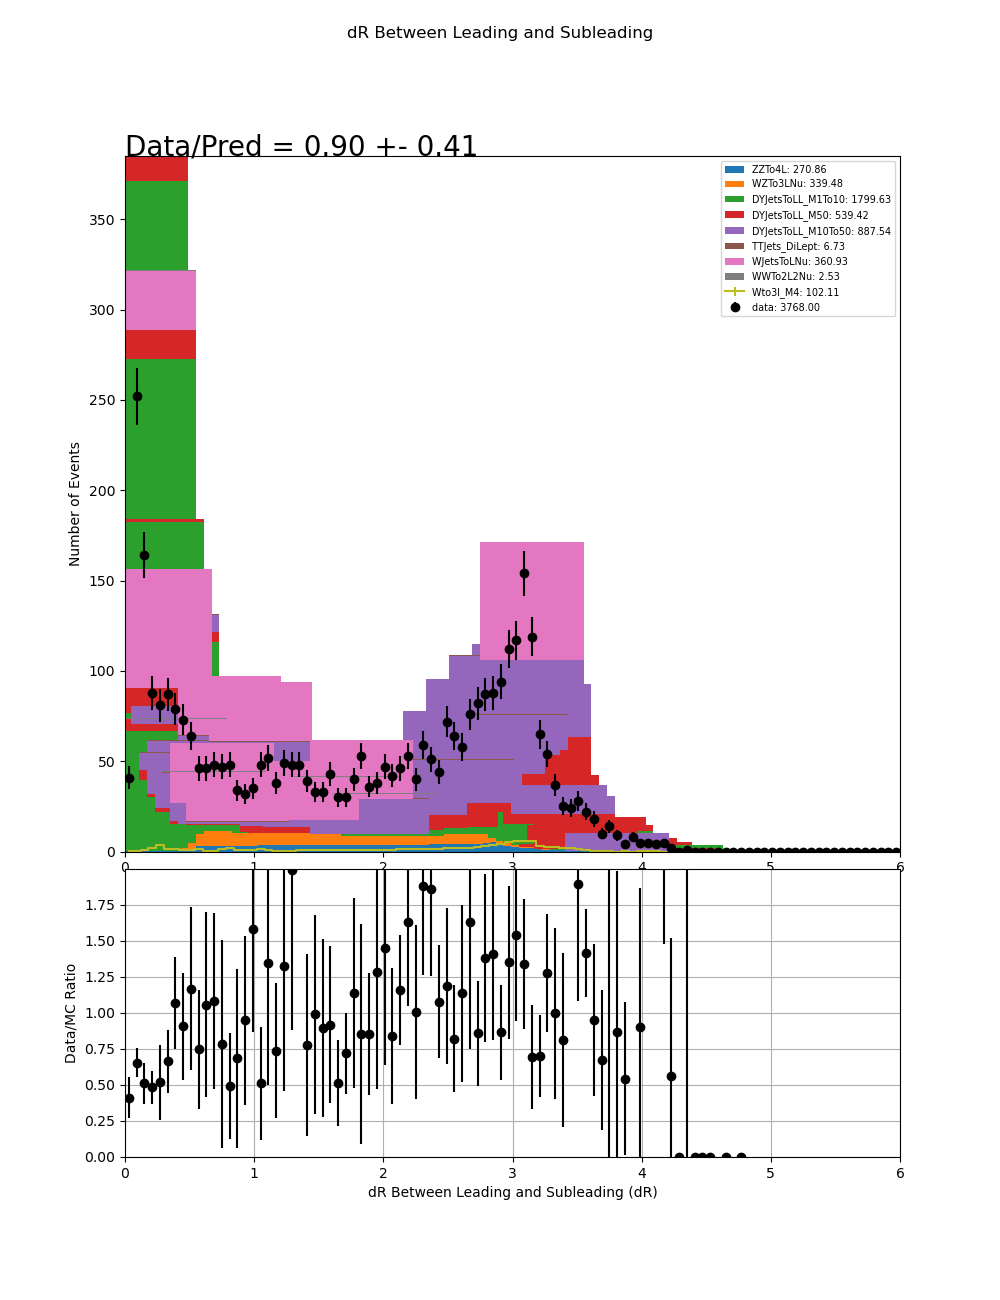
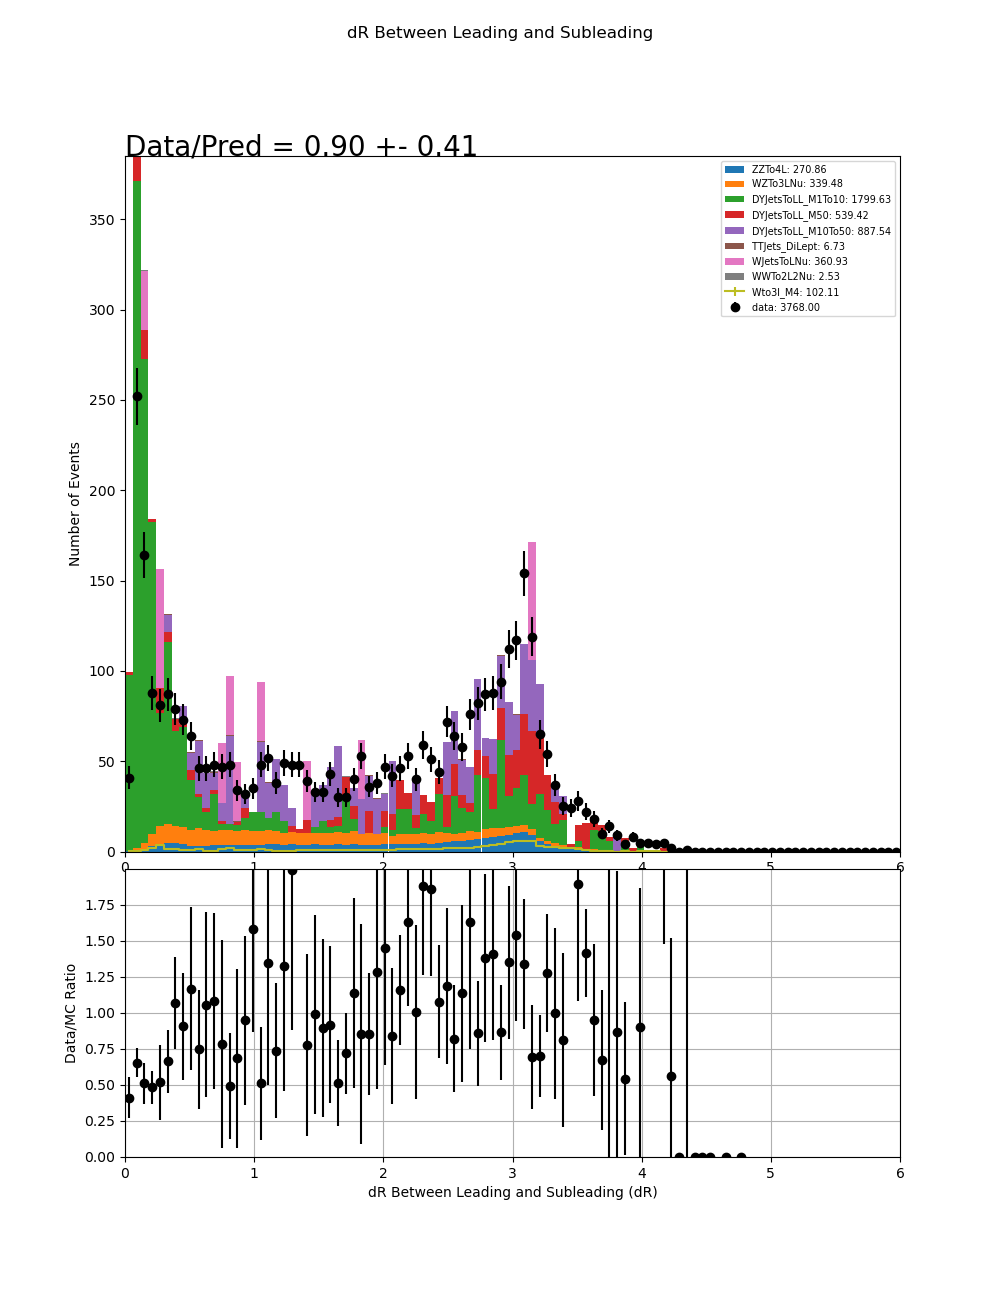
Fixed bars overlapping on plots

Changed region(s): [[0.124, 0.1231, 0.682, 0.6769]]

diff --git a/Plotter/Plot.py b/Plotter/Plot.py
@@ -39,7 +39,7 @@ def plot(data,p,s,e,out):
 		y,binEdges = np.histogram(to_plot,bins=p[3],range=(p[4],p[5]),weights=weight_arr)
 		bincenters = 0.5*(binEdges[1:]+binEdges[:-1])
 		if data[s[i]]["sType"]=="MC":
-			ax1.bar(bincenters,y,yerr=error,bottom=last,label='%s: %.2f'%(s[i],np.sum(y)))
+			ax1.bar(bincenters,y,yerr=error,bottom=last,width=binEdges[1]-binEdges[0],label='%s: %.2f'%(s[i],np.sum(y)))
 			last += y
 			MC_error += hidden_error
 		elif data[s[i]]["sType"]=="sig":
@@ -79,3 +79,4 @@ def plot(data,p,s,e,out):
 	fig.suptitle("%s"%(p[0]))
 	fig.savefig("%s/%s.png"%(out,p[1]))
 	fig.clf()
+	plt.close(fig)
